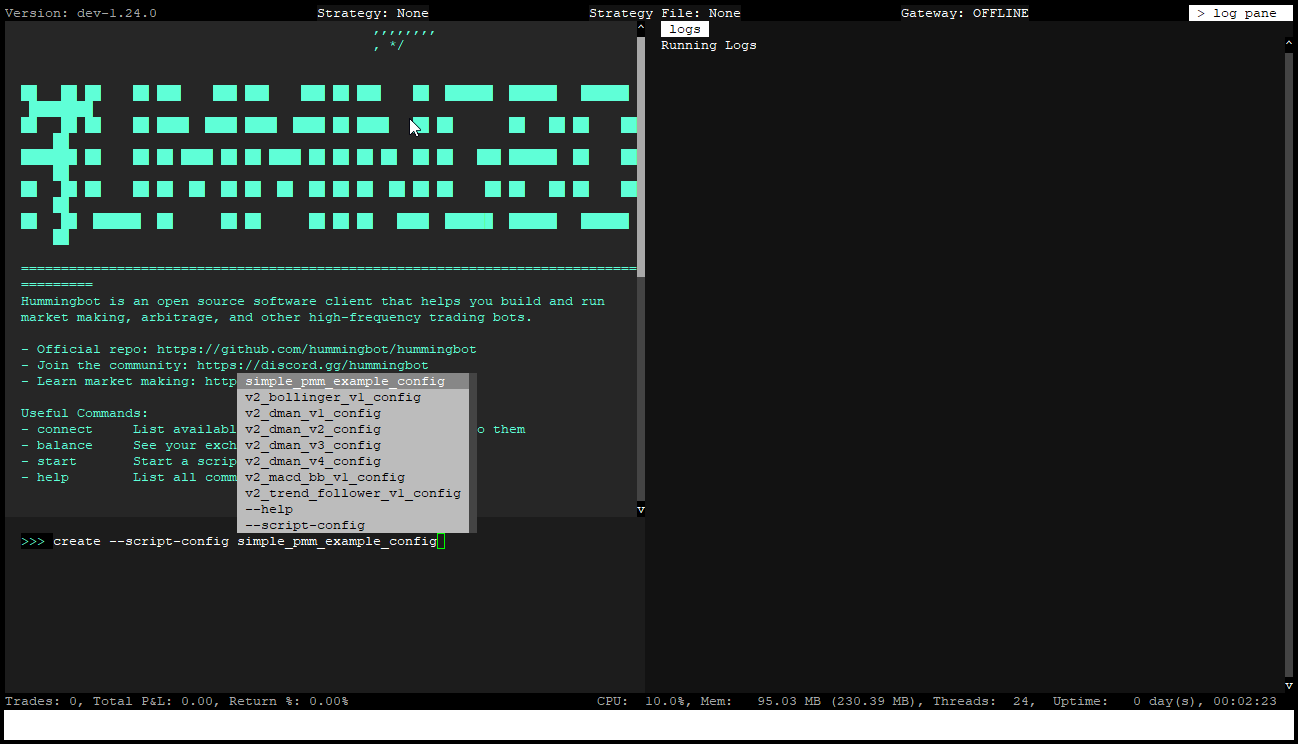
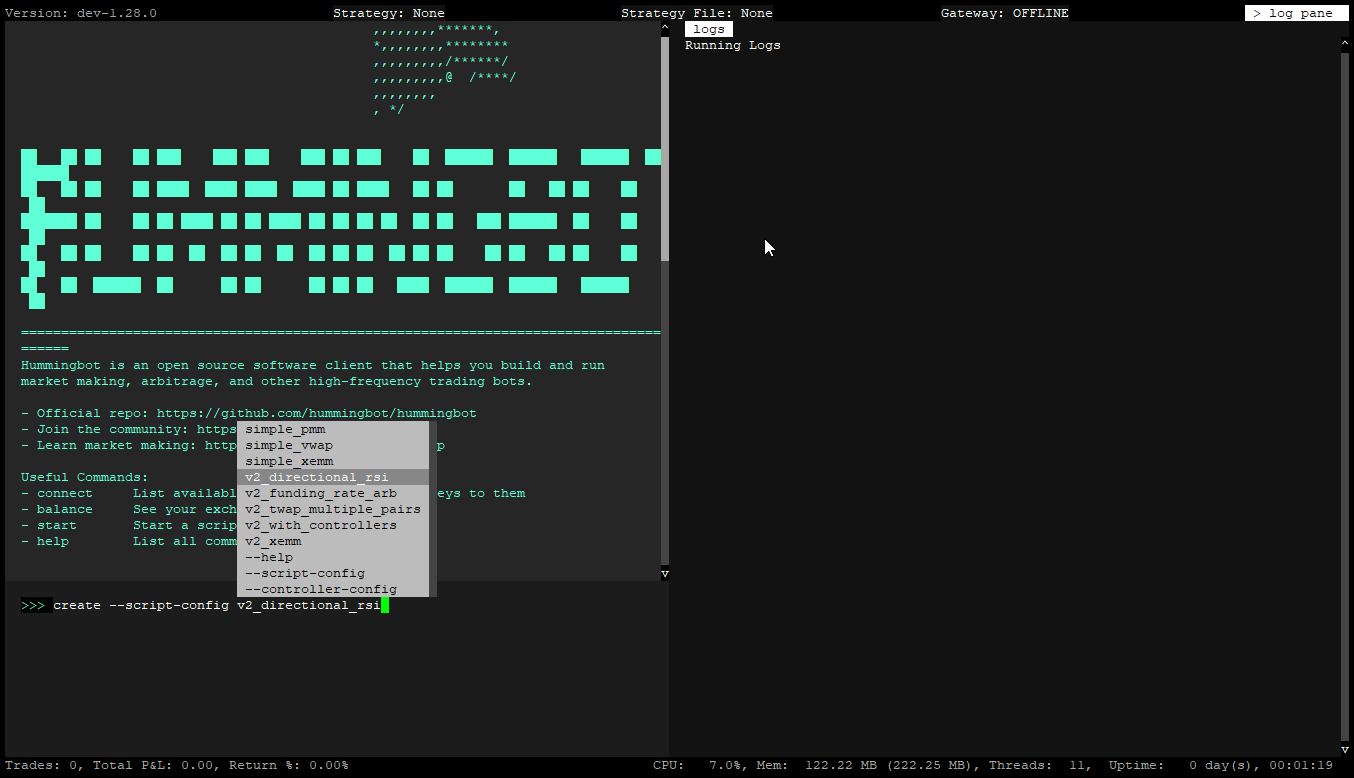
update quickstart script

diff --git a/docs/scripts/examples.md b/docs/scripts/examples.md
@@ -22,63 +22,19 @@ start --script [SCRIPT_FILE] --conf [SCRIPT_CONFIG_FILE]
 
 The scripts below can be found in the root [/scripts](https://github.com/hummingbot/hummingbot/tree/master/scripts) folder and are available to run from the Hummingbot client by default.
 
-### Basic Tasks
-
-#### Download Candles
-
-* **Code**:  [download_candles](https://github.com/hummingbot/hummingbot/tree/master/scripts/download_candles.py)
-* **Author**: [cardosofede](https://github.com/cardosofede)
-* **Release Added**: [1.15.0](../release-notes/1.15.0.md)
-* **Description**: This script provides an example of how to use the Candles Feed to download and store historical data. It downloads 3-minute candles for 3 Binance trading pairs ["APE-USDT", "BTC-USDT", "BNB-USDT"] and stores them in CSV files in the /data directory. The script stops after it has downloaded 175,000 max_records records for each pair
-
-#### Download Order Book and Trades
-
-* **Code**:  [download_order_book_and_trades](https://github.com/hummingbot/hummingbot/tree/master/scripts/download_order_book_and_trades.py)
-* **Author**: [cardosofede](https://github.com/cardosofede)
-* **Release Added**: [1.15.0](../release-notes/1.15.0.md)
-* **Description**: This script provides an example of how to download trades and order book snapshots for specified trading pairs from an exchange into a text file in the `data` folder. 
-
-#### Volatility Screener
-
-* **Code**: [screener_volatility](https://github.com/hummingbot/hummingbot/blob/development/scripts/screener_volatility.py)
-* **Author**:  [cardosofede](https://github.com/cardosofede)
-* **Release Added**: [1.25.0](../release-notes/1.25.0.md)
-* **Description**: This strategy screens for volatile trading pairs, utilizing candles to calculate various volatility metrics such as Bollinger Bands width percentage, normalized average true range (NATR), and percentage change. It periodically reports the top volatile trading pairs based on predefined criteria, and it provides a formatted market analysis for monitoring.
-
 ### Simple Strategies
 
 #### Simple PMM
 
-* **Code (configurable)**: [simple_pmm_example_config](https://github.com/hummingbot/hummingbot/blob/master/scripts/simple_pmm_example_config.py)
-* **Code: **: [simple_pmm_example](https://github.com/hummingbot/hummingbot/blob/master/scripts/simple_pmm_example.py)
+* **Code:** [simple_pmm](https://github.com/hummingbot/hummingbot/blob/master/scripts/simple_pmm.py)
 * **Author**:  [cardosofede](https://github.com/cardosofede)
 * **Release Added**: Configurable [1.25.0](../release-notes/1.9.0.md) | [1.9.0](../release-notes/1.9.0.md)
 * **Description**: The bot will place two orders around the `price_source` (mid price or last traded price) in a `trading_pair` on exchange, with a distance defined by the `ask_spread` and `bid_spread`. Every `order_refresh_time` in seconds, the bot will cancel and replace the orders.
 
-#### Simple XEMM
-
-* **Code**: [simple_xemm_example](https://github.com/hummingbot/hummingbot/blob/master/scripts/simple_xemm_example.py)
-* **Author**: [fengtality](https://github.com/fengtality)
-* **Release Added**: [1.10.0](../release-notes/1.10.0.md)
-* **Description**:  A simplified version of Hummingbot `cross-exchange market making` strategy, this bot makes a market on the maker pair and hedges any filled trades in the taker pair. If the spread (difference between maker order price and taker hedge price) dips below `min_spread`, the bot refreshes the order
-
-#### Simple Arbitrage
-
-* **Code**: [simple_arbitrage_example](https://github.com/hummingbot/hummingbot/blob/master/scripts/simple_arbitrage_example.py)
-* **Author**: [fengtality](https://github.com/fengtality)
-* **Release Added**: [1.20.0](../release-notes/1.20.0.md)
-* **Description**:  A simplified version of Hummingbot arbitrage strategy, this bot checks the Volume Weighted Average Price for bid and ask in two exchanges and if it finds a profitable opportunity, it will trade the tokens.
-
-#### Simple Directional RSI
-
-* **Code**: [simple_rsi_example](https://github.com/hummingbot/hummingbot/blob/master/scripts/simple_rsi_example.py)
-* **Author**: [cardosofede](https://github.com/cardosofede)
-* **Release Added**: [1.13.0](../release-notes/1.13.0.md)
-* **Description**: A simple trading strategy that uses RSI in one timeframe to determine whether to go long or short.
 
 #### Simple VWAP
 
-* **Code**: [simple_vwap_example](https://github.com/hummingbot/hummingbot/blob/master/scripts/simple_vwap_example.py)
+* **Code**: [simple_vwap](https://github.com/hummingbot/hummingbot/blob/master/scripts/simple_vwap.py)
 * **Author**: [cardosofede](https://github.com/cardosofede)
 * **Release Added**: [1.7.0](../release-notes/1.7.0.md)
 * **Description**: This example lets you create one VWAP in a market using a percentage of the sum volume of the order book until a spread from the mid price. This example demonstrates:
@@ -86,35 +42,39 @@ The scripts below can be found in the root [/scripts](https://github.com/humming
       - How to get the bids and asks of a market
       - How to code a "utility" strategy
 
+
+#### Simple XEMM
+
+* **Code**: [simple_xemm](https://github.com/hummingbot/hummingbot/blob/master/scripts/simple_xemm.py)
+* **Author**: [fengtality](https://github.com/fengtality)
+* **Release Added**: [1.10.0](../release-notes/1.10.0.md)
+* **Description**:  A simplified version of Hummingbot `cross-exchange market making` strategy, this bot makes a market on the maker pair and hedges any filled trades in the taker pair. If the spread (difference between maker order price and taker hedge price) dips below `min_spread`, the bot refreshes the order
+
+
 ### V2 Strategies
 
-#### V2 Simple Directional RSI
+#### V2 Directional RSI
 
-* **Code**: [v2_simple_directional_rsi](https://github.com/hummingbot/hummingbot/blob/development/scripts/v2_simple_directional_rsi.py)
+* **Code**: [v2_directional_rsi](https://github.com/hummingbot/hummingbot/blob/development/scripts/v2_directional_rsi.py)
 * **Author**: [cardosofede](https://github.com/cardosofede)
 * **Release Added**: [1.26.0](../release-notes/1.26.0.md)
 * **Description**: This utilizes RSI indicators to generate buy or sell signals based on predefined RSI thresholds. It utilizes PositionExecutor to manage positions with stop-loss and take-profit levels defined by a triple barrier logic.
 
-#### V2 PMM Single Level
+#### V2 Funding Rate Arbitrage
 
-* **Code**: [v2_pmm_single_level](https://github.com/hummingbot/hummingbot/blob/development/scripts/v2_pmm_single_level.py)
+* **Code**: [v2_funding_rate_arb.py](https://github.com/hummingbot/hummingbot/blob/master/scripts/v2_funding_rate_arb.py)
 * **Author**: [cardosofede](https://github.com/cardosofede)
-* **Release Added**: [1.26.0](../release-notes/1.26.0.md)
-* **Description**: This maintains liquidity by placing buy and sell orders based on predefined spread and order amount and utilizes PositionExecutor triple barrier logic for risk management, allowing setting stop-loss and take-profit levels.
+* **Release Added**: [1.27.0](../release-notes/1.27.0.md)
+* **Description**: This script arbitrages funding rates across perpetual exchanges
 
-#### V2 TWAP
+
+#### V2 TWAP Multiple Pairs
 
 * **Code**: [v2_twap_multiple_pairs.py](https://github.com/hummingbot/hummingbot/blob/master/scripts/v2_twap_multiple_pairs.py)
 * **Author**: [cardosofede](https://github.com/cardosofede)
 * **Release Added**: [1.26.0](../release-notes/1.26.0.md)
 * **Description**: This script utilizes [TWAPExecutors](/v2-strategies/executors/twapexecutor/) to buy/sell a block of assets.
 
-#### V2 Funding Rate Arbitrage
-
-* **Code**: [funding_rate_arb.py](https://github.com/hummingbot/hummingbot/blob/master/scripts/funding_rate_arb.py)
-* **Author**: [cardosofede](https://github.com/cardosofede)
-* **Release Added**: [1.27.0](../release-notes/1.27.0.md)
-* **Description**: This script arbitrages funding rates across perpetual exchanges
 
 #### V2 XEMM with Executors
 
@@ -127,172 +87,15 @@ The scripts below can be found in the root [/scripts](https://github.com/humming
 
 #### V2 Generic
 
-* **Code**:  [v2_generic_with_controllers](https://github.com/hummingbot/hummingbot/blob/development/scripts/v2_generic_with_controllers.py)
+* **Code**:  [v2_with_controllers](https://github.com/hummingbot/hummingbot/blob/development/scripts/v2_generic_with_controllers.py)
 * **Author**:  [cardosofede](https://github.com/cardosofede)
 * **Release Added**: [1.26.0](../release-notes/1.26.0.md)
 * **Description**: This script provides a template for launching Strategy V2 controllers that implement specific sub-strategies. This strategy is flexible and can be adapted to various trading scenarios by implementing custom controllers.
 
-#### V2 Generic with Cashout
-
-* **Code**:  [v2_generic_with_cash_out](https://github.com/hummingbot/hummingbot/blob/master/scripts/v2_generic_with_cash_out.py)
-* **Author**:  [cardosofede](https://github.com/cardosofede)
-* **Release Added**: [1.27.0](../release-notes/1.27.0.md)
-* **Description**: This script provides an advanced template for launching Strategy V2 controller configurations to include a cash out feature when controllers are stopped. In addition, it will also check if the controllers configs have been updated and apply the new settings. 
 
 ## Archived Scripts
 
-The scripts below can be found in the [archived_scripts](https://github.com/hummingbot/hummingbot/tree/master/scripts/archived_scripts) folder in the Github repo.
+If you are looking for an older script not listed above or was mentioned in any of our previous blogs or videos these scripts may be found in the [community](https://github.com/hummingbot/hummingbot/tree/master/scripts/community) or [utility](https://github.com/hummingbot/hummingbot/tree/master/scripts/utility) folders in the Github repo.
 
-To make a script available to run inside Hummingbog, move the file into the root `/scripts` folder.
+To make a script available to run inside Hummingbot, move the file into the root `/scripts` folder.
 
-### Simple Tasks
-
-#### Buy Three Times
-
-* **Code**: [buy_only_three_times_example](https://github.com/hummingbot/hummingbot/blob/master/scripts/archived_scripts/examples_simple_tasks/buy_only_three_times_example.py)
-* **Author**:  [cardosofede](https://github.com/cardosofede)
-* **Release Added**: [1.7.0](../release-notes/1.7.0.md)
-* **Description**: This example places shows how to add a logic to only place three buy orders in the market, use an event to increase the counter and stop the strategy once the task is done.
-
-#### Format Status
-
-* **Code**: [format_status_example](https://github.com/hummingbot/hummingbot/blob/master/scripts/archived_scripts/examples_simple_tasks/format_status_example.py)
-* **Author**: [cardosofede](https://github.com/cardosofede)
-* **Release Added**: [1.7.0](../release-notes/1.7.0.md)
-* **Description**: This example shows how to add a custom `format_status` to a strategy and query the order book.
-
-#### Log Price
-
-* **Code**: [log_price_example](https://github.com/hummingbot/hummingbot/blob/master/scripts/archived_scripts/examples_simple_tasks/log_price_example.py)
-* **Author**: [cardosofede](https://github.com/cardosofede)
-* **Release Added**: [1.7.0](../release-notes/1.7.0.md)
-* **Description**: This example shows how to get the ask and bid of a market and log it to the console.
-
-#### Simple Order Example
-
-* **Code**: [simple_order_example](https://github.com/hummingbot/hummingbot/blob/master/scripts/simple_order_example.py)
-* **Author**:  [fengtality](https://github.com/fengtality)
-* **Release Added**: [1.23.0](../release-notes/1.23.0.md)
-* **Description**: This example script places an order on a Hummingbot exchange connector. The user can select the order type (market or limit), side (buy or sell) and the spread (for limit orders only).
-
-
-### Using Data Feeds
-
-#### AMM Data Feed
-
-* **Code**: [amm_data_feed_example](https://github.com/hummingbot/hummingbot/blob/master/scripts/archived_scripts/examples_using_data_feeds/amm_data_feed_example.py)
-
-#### Candles Example
-
-* **Code**: [candles_example](https://github.com/hummingbot/hummingbot/blob/master/scripts/archived_scripts/examples_using_data_feeds/candles_example.py)
-* **Author**: [cardosofede](https://github.com/cardosofede)
-* **Release Added**: [1.13.0](../release-notes/1.13.0.md)
-* **Description**: This is a strategy that shows how to use the new Candlestick component. It acquires data from both Binance spot and Binance perpetuals to initialize three different timeframes of candlesticks. The candlesticks are then displayed in the status, which is coded using a custom format status that includes technical indicators.
-
-
-### Using Smart Components
-
-#### Advanced Directional
-
-* **Code**: [advanced_directional_strategy_example](https://github.com/hummingbot/hummingbot/blob/master/scripts/archived_scripts/examples_using_smart_components/directional_strategy_bb_rsi_multi_timeframe.py)
-* **Author**: [cardosofede](https://github.com/cardosofede)
-* **Release Added**: [1.13.0](../release-notes/1.13.0.md)
-* **Description**: A directional trading strategy that uses two timeframes of the same trading pair `(ETH-USDT)` and based on the RSI and Bollinger Bands is going long or short. The weigths of the indicators are the same, that means that `0.5 * RSI + 0.5 * BBANDS = signal_value`, but we are going to prioritize 1m timeframe so after calculating the signal for 1m and 3m, we are going to multiply the value of 1m by 0.7 and 3m by 0.3.
-
-#### DCA Example
-
-* **Code**: [dca_example](https://github.com/hummingbot/hummingbot/blob/master/scripts/archived_scripts/community_scripts/dca_example.py)
-* **Author**: [aarmoa](https://github.com/aarmoa)
-* **Release Added**: [1.4.0](../release-notes/1.4.0.md)
-* **Description**: This example shows how to set up a simple strategy to buy a token on fixed (dollar) amount on a regular basis
-
-#### PMM with shifted mid dynamic spreads
-
-* **Code**:  [pmm_with_shifted_mid_dynamic_spreads](https://github.com/hummingbot/hummingbot/blob/master/scripts/archived_scripts/examples_using_smart_components/pmm_with_shifted_mid_dynamic_spreads.py)
-* **Author**: [cardosofede](https://github.com/cardosofede)
-* **Release Added**: [1.15.0](../release-notes/1.15.0.md)
-* **Description**: This script will demonstrate how to extend the simple mmm example to shift the mid-price and make the spreads dynamic by using the candles component and applying technical indicators.
-
-### Community Scripts
-
-#### 1-N Portfolio
-
-* **Code**: [1overN_portfolio](https://github.com/hummingbot/hummingbot/blob/master/scripts/archived_scripts/community_scripts/1overN_portfolio.py)
-* **Author**: [rolandkofler](https://github.com/rolandkofler)
-* **Release Added**: [1.16.0](../release-notes/1.16.0.md)
-* **Description**: This strategy aims to create a 1/N cryptocurrency portfolio, providing perfect diversification without parametrization and giving a reasonable baseline performance.
-
-#### Adjusted Mid Price
-
-* **Code**: [adjusted_mid_price](https://github.com/hummingbot/hummingbot/blob/master/scripts/archived_scripts/community_scripts/adjusted_mid_price.py)
-* **Author**: [cmichaeltimmons](https://github.com/cmichaeltimmons)
-* **Release Added**: [1.9.0](../release-notes/1.9.0.md)
-* **Description**: This is an example of a pure market making strategy with an adjusted mid price.  The mid price is adjusted to the midpoint of a hypothetical buy and sell of a user defined {test_volume}.
-
-#### AMM Price
-
-* **Code**: [amm_price_example](https://github.com/hummingbot/hummingbot/blob/master/scripts/archived_scripts/community_scripts/amm_price_example.py)
-* **Author**: [fengtality](https://github.com/fengtality)  
-* **Release Added**: [1.13.0](../release-notes/1.13.0.md)
-* **Description**: This example shows how to call the /amm/price Gateway endpoint to fetch price for a swap
-
-#### AMM Trade
-
-* **Code**: [amm_trade_example](https://github.com/hummingbot/hummingbot/blob/master/scripts/archived_scripts/community_scripts/amm_trade_example.py)
-* **Author**: [fengtality](https://github.com/fengtality)  
-* **Release Added**: [1.13.0](../release-notes/1.13.0.md)  
-* **Description**: This example shows how to call the /amm/trade Gateway endpoint to execute a swap transaction
-
-#### Buy dip
-
-* **Code**: [buy_dip_example](https://github.com/hummingbot/hummingbot/blob/master/scripts/archived_scripts/community_scripts/buy_dip_example.py)
-* **Author**: [aarmoa](https://github.com/aarmoa)
-* **Release Added**: [1.4.0](../release-notes/1.4.0.md)
-* **Description**: This strategy buys ETH (with BTC) when the ETH-BTC drops 5% below 50 days moving average (of a previous candle)
-    This example demonstrates:
-      - How to call Binance REST API for candle stick data
-      - How to incorporate external pricing source (Coingecko) into the strategy
-      - How to listen to order filled event
-      - How to structure order execution on a more complex strategy
-
-#### Buy low sell high
-
-* **Code**: [buy_low_sell_high](https://github.com/hummingbot/hummingbot/blob/master/scripts/archived_scripts/community_scripts/buy_low_sell_high.py)
-* **Author**: [Alkhalifah-blockchain](https://github.com/Alkhalifah-blockchain)
-* **Release Added**: [1.9.0](../release-notes/index.md)
-* **Description**: The script will be calculating the MA for a certain pair, and will execute a buy_order at the golden cross and a sell_order at the death cross.
-
-#### Microprice Calculator
-
-* **Code**:  [microprice_calculator](https://github.com/hummingbot/hummingbot/blob/master/scripts/archived_scripts/community_scripts/microprice_calculator.py)
-* **Author**: [ntnle](https://github.com/ntnle)
-* **Release Added**: [1.13.0](../release-notes/1.13.0.md)
-* **Description**: A script that can compute the microprice adjusted midprice of token pairs and display that midprice adjusted for the imbalance of the order book, and other information.
-
-### Simple Grid
-
-* **Code**:  [fixed_grid](https://github.com/hummingbot/hummingbot/tree/master/scripts/fixed_grid.py)
-* **Author**: [rkc2000](https://github.com/rkc2000)
-* **Release Added**: [1.15.0](../release-notes/1.15.0.md)
-* **Description**: The script implements a fixed grid trading strategy, placing buy and sell orders at predetermined price levels, rebalancing assets if required, and providing status updates on trades and balances.
-
-#### Simple RSI
-
-* **Code**: [simple_rsi_example](https://github.com/hummingbot/hummingbot/blob/master/scripts/archived_scripts/community_scripts/simple_rsi_example.py)
-* **Author**: [shibanovp](https://github.com/shibanovp)
-* **Release Added**: [1.10.0](../release-notes/1.10.0.md)
-* **Description**: The strategy is to buy on overbought signal and sell on oversold.
-
-#### Spot Perp Arbitrage
-
-* **Code**: [spot_perp_arb](https://github.com/hummingbot/hummingbot/blob/master/scripts/archived_scripts/community_scripts/spot_perp_arb.py)
-* **Author**: [riven314](https://github.com/riven314)
-* **Release Added**: [1.16.0](../release-notes/1.16.0.md)
-* **Description**: This script improves upon and addresses problems with the current `spot perp arbitrage` strategy. It is designed to simultaneously initiate a long position in the spot market and a short position in the perpetual market when the opening signal is triggered. These positions are then closed upon receiving the closing signal. The profit is generated from the corrective motion between the spot price and the perpetual price.
-
-#### Triangular Arbitrage
-
-* **Code**: [triangular_arbitrage](https://github.com/hummingbot/hummingbot/blob/master/scripts/archived_scripts/community_scripts/triangular_arbitrage.py)
-* **Author**: [supervik](https://github.com/supervik)
-* **Release Added**: [1.10.0](../release-notes/1.10.0.md)
-* **Description**:  This script executes arbitrage trades on 3 markets of the same exchange when a price discrepancy among those markets is found.

diff --git a/docs/academy-content/posts/docker-installation-guide/3-run-script.md b/docs/academy-content/posts/docker-installation-guide/3-run-script.md
@@ -19,25 +19,19 @@ create --script-config v2_directional_rsi.py
 
 ```
 
-When you use the `create --script-config` and press <kbd>SPACE</kbd> Hummingbot will display available scripts in the scripts folder, as shown below.
+When you enter the `create --script-config` command and press <kbd>SPACE</kbd> Hummingbot will display available scripts in the scripts folder, as shown below.
 
 [![Alt text](create-script-config.png)](create-script-config.png)
 
-If you don't see any scripts under the `/scripts` folder, run these commands in the terminal to make them appear: 
-
-```bash
-sudo chmod -R a+rw ./hummingbot_files
-docker cp hummingbot:/home/hummingbot/scripts-copy/. ./hummingbot_files/scripts/
-```
-
 Select the `v2_directional_rsi.py` script and press <kbd>ENTER</kbd>. 
+
+[![Alt text](create-script-config2.png)](create-script-config2.png)
+
+You will then be guided to configure the settings. At this stage, you may modify the options or simply hit <kbd>ENTER</kbd> to accept the default values. 
 
 [![Alt text](config-script.png)](config-script.png)
 
-You will then be guided to configure the settings. At this stage, you may modify the options or simply hit <kbd>ENTER</kbd> to accept the default values. After finalizing the configuration, name the config file and press <kbd>ENTER</kbd> to save it.
-
-[![Alt text](save-config.png)](save-config.png)
-
+Give the config a name and press press <kbd>ENTER</kbd> to save it.
 
 Once the config is saved we can now launch the script. Enter the command below to launch the script!
 
@@ -54,6 +48,9 @@ After pressing <kbd>ENTER</kbd> you should be able to see activity in the log pa
 ```
 status
 ```
+
+!!! tip "Default Configs"
+    Please note that the default values for the script config may not work for each and every exchange / scenario. You may need to tweak the script config in order for the bot to be able to place orders. If you encounter any issues check the log pane and the log files for more information on what the issue may be. 
 
 
 [![Alt text](script-status.png)](script-status.png)

diff --git a/docs/exchanges/mexc/index.md b/docs/exchanges/mexc/index.md
@@ -46,6 +46,10 @@ Your API is now created. Please keep your Secret Key secure. It will not be show
 
 ### Add Keys to Hummingbot
 
+!!! tip "Trading Pairs"
+    Please note that not all trading pairs are available for trading by the MEXC API. For a list of trading pairs that are available please check this link - <https://www.mexc.com/user/openapi>
+
+
 From inside the Hummingbot client, run `connect mexc`:
 
 ```
